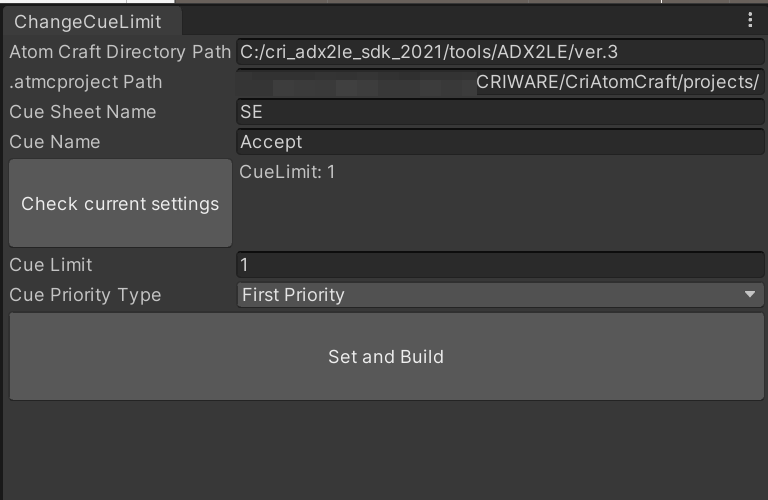
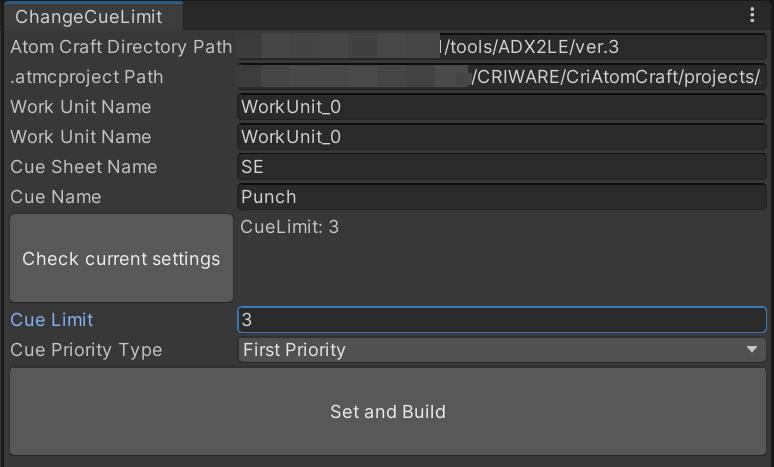
Add WorkUnit and cuesheetfolder options fix python script base

diff --git a/Assets/Editor/CriWareExtension/ChangeCueLimit.cs b/Assets/Editor/CriWareExtension/ChangeCueLimit.cs
@@ -18,6 +18,10 @@ public class ChangeCueLimit : EditorWindow
 
     [SerializeField]
     private string atomCraftDirectory,atomProjectPath;
+    [SerializeField] 
+    private string workUnitName = "WorkUnit_0";
+    [SerializeField] 
+    private string cueSheetFolderName = "WorkUnit_0";
     [SerializeField]
     private string cueSheetName, cueName; 
     
@@ -37,6 +41,8 @@ public class ChangeCueLimit : EditorWindow
     {
         atomCraftDirectory = EditorGUILayout.TextField("Atom Craft Directory Path", atomCraftDirectory); 
         atomProjectPath = EditorGUILayout.TextField(".atmcproject Path", atomProjectPath); 
+        workUnitName = EditorGUILayout.TextField("Work Unit Name", workUnitName); 
+        cueSheetFolderName = EditorGUILayout.TextField("Work Unit Name", cueSheetFolderName); 
         cueSheetName = EditorGUILayout.TextField("Cue Sheet Name", cueSheetName); 
         cueName = EditorGUILayout.TextField("Cue Name", cueName);
 
@@ -60,7 +66,7 @@ public class ChangeCueLimit : EditorWindow
         
         if( GUILayout.Button( "Set and Build", GUILayout.Height(60) ) )
         {
-            PythonGen(cueSheetName, cueName, cueLimit, priorityType);
+            PythonGen();
             AttachAndBuild();
         }
     }
@@ -90,7 +96,7 @@ public class ChangeCueLimit : EditorWindow
         }
     }
 
-    private void PythonGen(string cueSheetName, string cueName,int cueLimit, CuePriorityType priority)
+    private void PythonGen()
     {
         var path = Directory.GetParent(Application.dataPath) +"/"+pythonScriptDirectoryName;
 
@@ -109,10 +115,12 @@ public class ChangeCueLimit : EditorWindow
         using (StreamReader changeCueLimitBaseText = new StreamReader(Application.dataPath+"/"+pythonBaseScriptDirectoryName+"/"+changeCueLimitPythonBaseFileName))
         using (StreamWriter sw = File.CreateText(pythonScriptPath))
         {
+            sw.WriteLine("WORK_UNIT_NAME = \""+workUnitName+"\"");
+            sw.WriteLine("CUE_SHEET_FOLDER_NAME = \""+cueSheetFolderName+"\"");
             sw.WriteLine("CUE_SHEET_NAME = \""+cueSheetName+"\"");
             sw.WriteLine("CUE_NAME = \""+cueName+"\"");
             sw.WriteLine("CUE_LIMIT_NUM = "+cueLimit);
-            sw.WriteLine("CUE_PRIORITY_TYPE = \""+priority.ToString()+"\"");
+            sw.WriteLine("CUE_PRIORITY_TYPE = \""+priorityType.ToString()+"\"");
             sw.Write(changeCueLimitBaseText.ReadToEnd());
         }
     }
